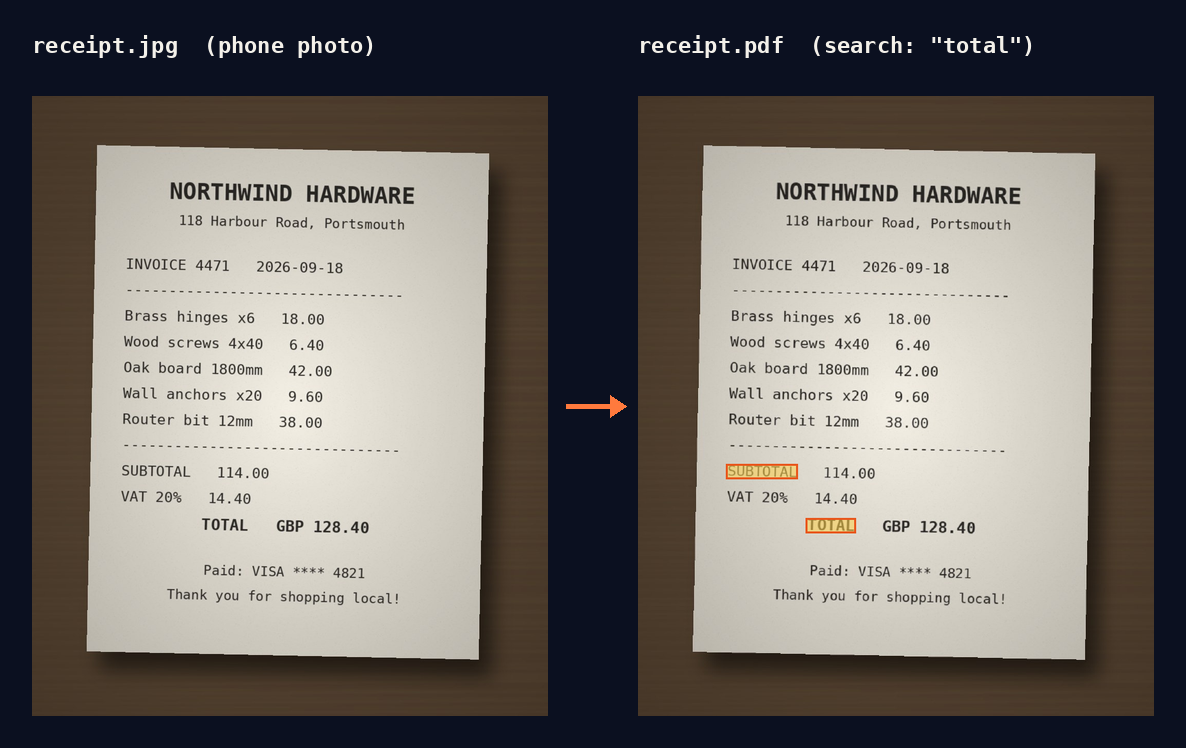
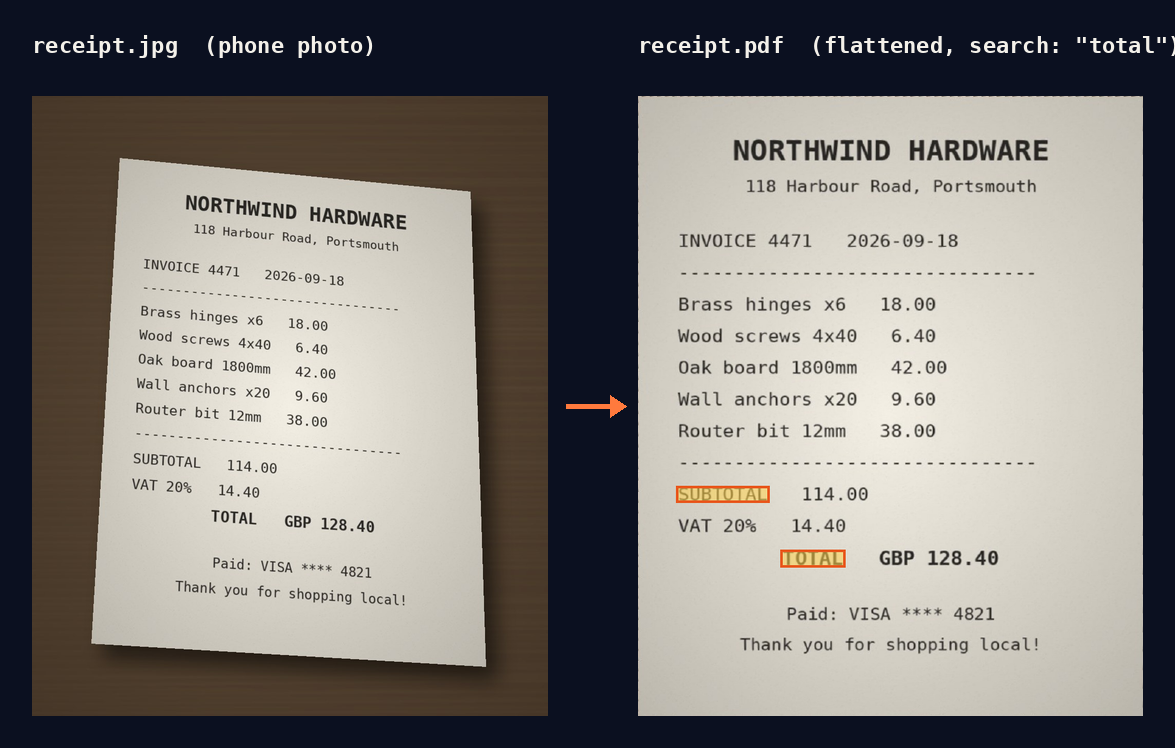
fix(core): join OCR words into lines in chunks and refresh the README for 0.3.0 (#56)
Claude-Session: https://claude.ai/code/session_01D1iehcj2N1RskoL99PW2Ue

diff --git a/docs/demo/record.py b/docs/demo/record.py
@@ -5,12 +5,14 @@
     python3 docs/demo/record.py [--bin target/release/anytopdf]
 
 Needs Pillow, Tesseract and Poppler (pdftoppm, pdftotext). It draws a phone
-photo of a receipt, converts it with the anytopdf binary, then renders:
+photo of a receipt taken at an angle and a WhatsApp chat export, converts them
+with the anytopdf binary, then renders:
 
 - receipt.jpg: the input photo
-- before-after.png: the photo next to the produced PDF page, with the words a
-  search for "total" finds in the PDF's text layer highlighted
-- demo.gif: a terminal recording whose output is the commands' real output
+- before-after.png: the photo next to the produced (flattened) PDF page, with the
+  words a search for "total" finds in the PDF's text layer highlighted
+- demo.gif: a terminal recording (convert a folder into an index, search it, ask
+  it a question) whose output is the commands' real output
 """
 
 import argparse
@@ -31,6 +33,14 @@ FONTS = Path("/usr/share/fonts/truetype/dejavu")
 MONO = FONTS / "DejaVuSansMono.ttf"
 MONO_BOLD = FONTS / "DejaVuSansMono-Bold.ttf"
 
+CHAT = """\
+[18/09/2026, 17:42:10] Sam: Did you get the hinges for the shed?
+[18/09/2026, 17:43:02] Me: Yes, Northwind Hardware had everything. Came to £128.40 with VAT
+[18/09/2026, 17:43:30] Sam: Nice. Send me the receipt and I'll pay half
+[18/09/2026, 17:44:12] Me: Will do. Can we fix the door on Saturday at 10am?
+[18/09/2026, 17:44:40] Sam: Saturday works
+"""
+
 RECEIPT = [
     ("NORTHWIND HARDWARE", "bold", 44),
     ("118 Harbour Road, Portsmouth", "", 26),
@@ -50,6 +60,25 @@ RECEIPT = [
     ("Paid: VISA **** 4821", "", 26),
     ("Thank you for shopping local!", "", 26),
 ]
+
+
+def perspective_coeffs(dst, src):
+    """PIL PERSPECTIVE coefficients mapping output points dst onto input points src."""
+    rows, rhs = [], []
+    for (x, y), (u, v) in zip(dst, src):
+        rows.append([x, y, 1, 0, 0, 0, -u * x, -u * y])
+        rows.append([0, 0, 0, x, y, 1, -v * x, -v * y])
+        rhs += [u, v]
+    n = len(rows)
+    m = [row + [b] for row, b in zip(rows, rhs)]
+    for col in range(n):  # Gauss-Jordan elimination with partial pivoting
+        pivot = max(range(col, n), key=lambda r: abs(m[r][col]))
+        m[col], m[pivot] = m[pivot], m[col]
+        for r in range(n):
+            if r != col:
+                f = m[r][col] / m[col][col]
+                m[r] = [a - f * b for a, b in zip(m[r], m[col])]
+    return [m[i][n] / m[i][i] for i in range(n)]
 
 
 def make_photo(path):
@@ -79,13 +108,17 @@ def make_photo(path):
         dd.line([(0, i), (1000, i + rng.randint(-8, 8))], fill=(shade + 12, shade - 6, shade - 30), width=3)
     desk = desk.filter(ImageFilter.GaussianBlur(2))
 
-    rotated = paper.rotate(-1.2, resample=Image.BICUBIC, expand=True, fillcolor=(0, 0, 0, 0))
-    mask = Image.new("L", paper.size, 255).rotate(-1.2, resample=Image.BICUBIC, expand=True)
+    # Shot at an angle: the sheet lands on the desk as a rotated trapezoid.
+    corners = [(170, 120), (850, 185), (880, 1105), (115, 1060)]
+    w, h = paper.size
+    coeffs = perspective_coeffs(corners, [(0, 0), (w, 0), (w, h), (0, h)])
+    warped = paper.transform(desk.size, Image.PERSPECTIVE, coeffs, Image.BICUBIC)
+    mask = Image.new("L", paper.size, 255).transform(desk.size, Image.PERSPECTIVE, coeffs, Image.BICUBIC)
     shadow = Image.new("RGBA", desk.size, (0, 0, 0, 0))
-    shadow.paste((0, 0, 0, 150), (130, 130), mask)
+    shadow.paste((0, 0, 0, 150), (22, 28), mask)
     shadow = shadow.filter(ImageFilter.GaussianBlur(18))
     desk = Image.alpha_composite(desk.convert("RGBA"), shadow).convert("RGB")
-    desk.paste(rotated, (105, 95), mask)
+    desk.paste(warped, (0, 0), mask)
 
     # uneven light from a desk lamp
     light = Image.radial_gradient("L").resize(desk.size).point(lambda v: 255 - v // 3)
@@ -135,7 +168,7 @@ def before_after(photo, pdf, cwd, out):
     d = ImageDraw.Draw(canvas)
     label = ImageFont.truetype(str(MONO_BOLD), 22)
     d.text((pad, pad), "receipt.jpg  (phone photo)", font=label, fill="#f4f1ea")
-    d.text((pad + left.width + gap, pad), 'receipt.pdf  (search: "total")', font=label, fill="#f4f1ea")
+    d.text((pad + left.width + gap, pad), 'receipt.pdf  (flattened, search: "total")', font=label, fill="#f4f1ea")
     canvas.paste(left, (pad, pad + head))
     canvas.paste(right, (pad + left.width + gap, pad + head))
     ax, ay = pad + left.width + 18, pad + head + h // 2
@@ -145,7 +178,7 @@ def before_after(photo, pdf, cwd, out):
 
 
 class Terminal:
-    W, H, PAD, LINE = 1000, 560, 22, 24
+    W, H, PAD, LINE = 1000, 700, 22, 24
 
     def __init__(self):
         self.font = ImageFont.truetype(str(MONO), 17)
@@ -210,27 +243,37 @@ def main():
 
     photo = HERE / "receipt.jpg"
     make_photo(photo)
-    with tempfile.TemporaryDirectory() as tmp:
-        work = Path(tmp)
-        shutil.copy(photo, work / "receipt.jpg")
+    # A fixed, short folder keeps the absolute paths `search` prints readable.
+    work = Path(tempfile.gettempdir()) / "anytopdf-demo"
+    shutil.rmtree(work, ignore_errors=True)
+    inbox = work / "inbox"
+    inbox.mkdir(parents=True)
+    try:
+        shutil.copy(photo, inbox / "receipt.jpg")
+        (inbox / "WhatsApp Chat with Sam.txt").write_text(CHAT, encoding="utf-8")
         bindir = work / "bin"
         bindir.mkdir()
         (bindir / "anytopdf").symlink_to(binary)
-        env = f"PATH={shlex.quote(str(bindir))}:$PATH SOURCE_DATE_EPOCH=1790000000"
+        env = (f"PATH={shlex.quote(str(bindir))}:$PATH SOURCE_DATE_EPOCH=1790000000 "
+               f"ANYTOPDF_INDEX={shlex.quote(str(work / 'index.sqlite'))}")
 
         term = Terminal()
         term.frame(700, cursor=False)
         steps = [
-            ("anytopdf receipt.jpg -o receipt.pdf", None, 1600),
-            ("pdftotext -layout receipt.pdf - | grep -i total", "total", 2000),
-            ("anytopdf extract receipt.pdf --json | jq -r '.manifest.sources[0].sha256'", None, 4000),
+            ("ls inbox", None, 1200),
+            ("anytopdf inbox --index -o inbox.pdf", None, 1600),
+            ("anytopdf search northwind", "northwind", 2200),
+            ('anytopdf ask inbox.pdf "How much was the Northwind receipt?" --top 2 | head -12', "128.40", 4500),
         ]
         for cmd, highlight, ms in steps:
             out = run(f"{env} sh -c {shlex.quote(cmd)}", work)
             term.type(cmd)
             term.output(out, highlight=highlight, ms=ms)
         term.save(HERE / "demo.gif")
-        before_after(photo, work / "receipt.pdf", work, HERE / "before-after.png")
+        run(f"{env} anytopdf receipt.jpg -o receipt.pdf", inbox)
+        before_after(photo, inbox / "receipt.pdf", inbox, HERE / "before-after.png")
+    finally:
+        shutil.rmtree(work, ignore_errors=True)
     print("wrote receipt.jpg, before-after.png, demo.gif")
 
 

diff --git a/crates/anytopdf-core/src/manifest.rs b/crates/anytopdf-core/src/manifest.rs
@@ -1,4 +1,7 @@
-use crate::{Anchor, Annotation, DocumentGraph, PageRange, RenderReport, Unit, UnitKind, Uuid};
+use crate::{
+    Anchor, Annotation, AnnotationKind, DocumentGraph, PageRange, RenderReport, Unit, UnitKind,
+    Uuid,
+};
 use serde::{Deserialize, Serialize};
 use std::collections::BTreeMap;
 
@@ -83,6 +86,34 @@ pub fn annotation_entity(a: &Annotation) -> Option<&str> {
 pub struct ChunkSet {
     pub schema_version: String,
     pub chunks: Vec<Chunk>,
+}
+
+/// Annotation texts, one per line, except that consecutive word-level OCR boxes on
+/// the same visual line are joined with spaces, so OCR chunks read as lines of text.
+fn annotation_text<'a>(annotations: impl Iterator<Item = &'a Annotation>) -> String {
+    let mut text = String::new();
+    let mut previous: Option<&Annotation> = None;
+    for a in annotations {
+        if let Some(p) = previous {
+            text.push(if same_ocr_line(p, a) { ' ' } else { '\n' });
+        }
+        text.push_str(&a.text);
+        previous = Some(a);
+    }
+    text
+}
+
+/// Whether `b` continues `a`'s OCR line: both are OCR boxes, `b` starts to the right
+/// of where `a` starts, and their vertical centres are within half a line height.
+fn same_ocr_line(a: &Annotation, b: &Annotation) -> bool {
+    let (Some(ra), Some(rb)) = (a.region, b.region) else {
+        return false;
+    };
+    if a.kind != AnnotationKind::Ocr || b.kind != AnnotationKind::Ocr || rb.x <= ra.x {
+        return false;
+    }
+    let centre = |r: crate::Region| r.y + r.height / 2.0;
+    (centre(ra) - centre(rb)).abs() <= ra.height.max(rb.height) / 2.0
 }
 
 fn page_span(report: &RenderReport, units: &[&Unit]) -> Option<PageRange> {
@@ -204,12 +235,11 @@ impl ChunkSet {
                 // Entities repeat text already in the chunk, so they are listed
                 // separately rather than appended to it.
                 let text = u.visible_text.clone().unwrap_or_else(|| {
-                    u.annotations
-                        .iter()
-                        .filter(|a| annotation_entity(a).is_none())
-                        .map(|a| a.text.as_str())
-                        .collect::<Vec<_>>()
-                        .join("\n")
+                    annotation_text(
+                        u.annotations
+                            .iter()
+                            .filter(|a| annotation_entity(a).is_none()),
+                    )
                 });
                 Some(Chunk {
                     id: u.id,
@@ -293,6 +323,35 @@ mod tests {
             Manifest::build(&graph, &report),
             ChunkSet::build(&graph, &report),
         )
+    }
+
+    #[test]
+    fn ocr_words_on_one_line_join_with_spaces_in_chunk_text() {
+        let word = |text: &str, x: f32, y: f32| {
+            let mut a = Annotation::text(AnnotationKind::Ocr, "tesseract", text);
+            a.region = Some(crate::Region {
+                x,
+                y,
+                width: 0.1,
+                height: 0.04,
+            });
+            a
+        };
+        let caption = Annotation::text(AnnotationKind::Caption, "test", "a caption");
+        let annotations = [
+            word("TOTAL", 0.1, 0.50),
+            word("GBP", 0.4, 0.505),
+            word("128.40", 0.6, 0.498),
+            word("Paid:", 0.1, 0.60),
+            word("VISA", 0.3, 0.60),
+            caption,
+            word("x", 0.2, 0.70),
+            word("y", 0.1, 0.70),
+        ];
+        assert_eq!(
+            annotation_text(annotations.iter()),
+            "TOTAL GBP 128.40\nPaid: VISA\na caption\nx\ny"
+        );
     }
 
     #[test]

diff --git a/docs/brand/render.py b/docs/brand/render.py
@@ -43,7 +43,7 @@ THEMES = {
     },
 }
 
-INPUTS = [".jpg", ".heic", ".pdf", ".mp4", ".mp3", ".srt", ".eml", ".docx", ".html", ".zip"]
+INPUTS = [".jpg", ".cr3", ".pdf", ".mp4", ".mp3", "chat.txt", ".eml", ".docx", "https://", ".zip"]
 
 
 def font(name, size):
@@ -141,7 +141,7 @@ def banner(theme):
     draw.text(s(66, 192), "Turn anything into a searchable PDF.", font=font("DejaVuSans-Bold.ttf", 25), fill=t["ink"])
     draw.text(
         s(66, 232),
-        "Photos, scans, video, audio, email, Office, archives  →  one offline evidence file.",
+        "Photos, video, voice notes, chats, email, Office  \u2192  searchable, askable, offline.",
         font=font("DejaVuSans.ttf", 16),
         fill=t["muted"],
     )
@@ -163,13 +163,13 @@ def social_preview():
     draw.text(s(82, 284), "searchable PDF.", font=font("DejaVuSans-Bold.ttf", 44), fill=t["accent"])
     draw.text(
         s(84, 362),
-        "OCR, transcripts, captions and metadata in an invisible\ntext layer, plus an embedded manifest for RAG and agents.",
+        "OCR, transcripts, objects, scenes and places in an invisible\ntext layer. Then search and ask across all of it, offline.",
         font=font("DejaVuSans.ttf", 22),
         fill=t["muted"],
         spacing=8 * SCALE,
     )
     f = font("DejaVuSansMono.ttf", 18)
-    cmd = "$ anytopdf scan.jpg meeting.mp4 inbox.mbox -o evidence.pdf"
+    cmd = "$ anytopdf ask inbox.pdf \"How much was the Northwind receipt?\""
     draw.rounded_rectangle(s(80, 470, 1200, 530), radius=12 * SCALE, fill=t["chip"], outline=t["wire"], width=SCALE)
     draw.text(s(104, 487), cmd, font=f, fill=t["chip_ink"])
     draw.text(

diff --git a/README.md b/README.md
@@ -16,24 +16,29 @@
 
 # anytopdf
 
-**Turn photos, scans, video, audio, email, Office files and archives into one
-searchable PDF, offline, with a single binary.**
+**A private search engine for everything you keep. Photos, scans, video, voice
+notes, chat exports, email and Office files become searchable PDFs that you can
+search and question, offline, from one download.**
 
 ```console
-$ anytopdf receipt.jpg meeting.mp4 inbox.mbox -o evidence.pdf
+$ anytopdf ~/inbox --index -o inbox.pdf
+$ anytopdf search northwind
+$ anytopdf ask inbox.pdf "How much was the Northwind receipt?"
 ```
 
 Every page looks like the original. Underneath, an invisible text layer carries
-the OCR, transcripts, captions and timestamps, so Ctrl+F, Spotlight, `pdftotext`
-and your RAG pipeline all find the words. A manifest with SHA-256 hashes and
-per-page chunks is embedded in the PDF, which makes the file its own index.
+what anytopdf read, heard and saw: OCR from flattened phone photos, Whisper
+transcripts, captions, objects, scene tags, places, dates and links. So Ctrl+F,
+Spotlight, `pdftotext`, `anytopdf search` and your RAG pipeline all find it. A
+manifest with SHA-256 hashes and per-page chunks is embedded in the PDF, which
+makes the file its own index.
 
 <p align="center">
-  <img alt="A phone photo of a receipt becomes a PDF in which a search for 'total' highlights the words on the page" src="docs/demo/before-after.png" width="100%">
+  <img alt="An angled phone photo of a receipt becomes a flattened PDF page in which a search for 'total' highlights the words" src="docs/demo/before-after.png" width="100%">
 </p>
 
 <p align="center">
-  <img alt="Terminal: anytopdf converts receipt.jpg, pdftotext finds TOTAL GBP 128.40, anytopdf extract prints the source hash" src="docs/demo/demo.gif" width="80%">
+  <img alt="Terminal: anytopdf converts a folder with a receipt photo and a WhatsApp chat into an indexed PDF, anytopdf search finds Northwind in both, and anytopdf ask returns the passages with the total" src="docs/demo/demo.gif" width="80%">
 </p>
 
 <sub>Both images come from a real run of the release binary
@@ -43,16 +48,19 @@ per-page chunks is embedded in the PDF, which makes the file its own index.
 
 | | |
 | --- | --- |
-| **Reads almost anything** | Photos (JPEG, PNG, TIFF, HEIC/AVIF, camera RAW) with phone-photo page flattening, scanned and digital PDFs, video, audio, SRT/VTT captions, text and Markdown, JSON and JSON Lines, HTML, `.eml`/`.mbox` email with attachments, WhatsApp/Telegram/Slack/iMessage chat exports, Word/Excel/PowerPoint/OpenDocument, zip and tar archives, and print jobs |
-| **Finds the words** | OCR through Apple Vision, docTR or Tesseract, kept word-aligned under the image; speech to text through the bundled Whisper plugin; video keyframes chosen by interval and scene change |
+| **Reads almost anything** | Photos (JPEG, PNG, TIFF, HEIC/AVIF, camera RAW) with phone-photo page flattening, scanned and digital PDFs, video, audio, SRT/VTT captions, text and Markdown, JSON and JSON Lines, HTML, web pages and YouTube links, browser bookmarks, `.eml`/`.mbox` email with attachments, WhatsApp/Telegram/Slack/iMessage chat exports, Word/Excel/PowerPoint/OpenDocument, zip and tar archives, screen recordings and print jobs |
+| **Reads, hears and sees** | OCR through Apple Vision, docTR or Tesseract, word-aligned under the image; Whisper speech to text; CLIP scene tags so "beach" finds beach photos; YOLO objects; face presence and opt-in matching against your own local face index; laughter, applause and sirens; dominant colours, places, dates, links, sentiment and tone. Nothing estimates age, gender or emotion |
+| **Search and ask across everything** | `anytopdf search` queries a local SQLite index of every converted PDF, filtered by kind or person; `anytopdf ask` returns ranked passages citing file, page and time, and writes a cited answer with any local OpenAI-compatible LLM |
 | **Writes a real archive file** | Tagged PDF/A-3a with bookmarks, Arabic/Hebrew/CJK shaping, byte-reproducible output, and a provenance page |
-| **Proves where it came from** | Embedded `anytopdf-manifest.json` and `anytopdf-chunks.json` with source hashes and page maps; `anytopdf extract --json` reads them back |
-| **Plugs into agents** | `anytopdf mcp` is a Model Context Protocol server: `claude mcp add anytopdf -- anytopdf mcp` |
+| **Proves where it came from** | Embedded `anytopdf-manifest.json` and `anytopdf-chunks.json` with source hashes, page maps and entities; `anytopdf extract --json` reads them back |
+| **Plugs into agents** | `anytopdf mcp` is a Model Context Protocol server with convert, search and ask tools: `claude mcp add anytopdf -- anytopdf mcp` |
 | **Runs unattended** | Folder-backed job queue, HTTP upload intake, signed webhooks, an IMAP mailbox watcher, and an optional IPP printer helper that phones and laptops can print to |
 | **Extends without forks** | Any `anytopdf-plugin-*` executable on `PATH`, in any language, speaks a versioned JSON protocol; an opt-in sandbox confines it |
 
-Nothing leaves your machine: no cloud OCR, no telemetry, and no network access
-unless you turn on an intake channel (queue server, webhooks, IMAP or the printer).
+Nothing leaves your machine: models run locally, there is no telemetry, and the
+network is used only when you convert a URL, download a model, point anytopdf at
+your own LLM endpoint, or turn on an intake channel (queue server, webhooks, IMAP
+or the printer).
 
 ## Install
 

diff --git a/CHANGELOG.md b/CHANGELOG.md
@@ -6,6 +6,9 @@ Visual and audio analysis, cross-file search, and many new inputs.
 
 ### Behaviour changes
 
+- OCR chunk text in `anytopdf-chunks.json`, `anytopdf ask` passages and the search
+  index joins the words of one OCR line with spaces instead of putting every word on
+  its own line.
 - URLs, email addresses, domains and app names found in OCR, captions, transcripts
   and text become `custom` entity annotations, and dates and times become
   `timestamp` annotations with an ISO 8601 value (relative ones such as "last
